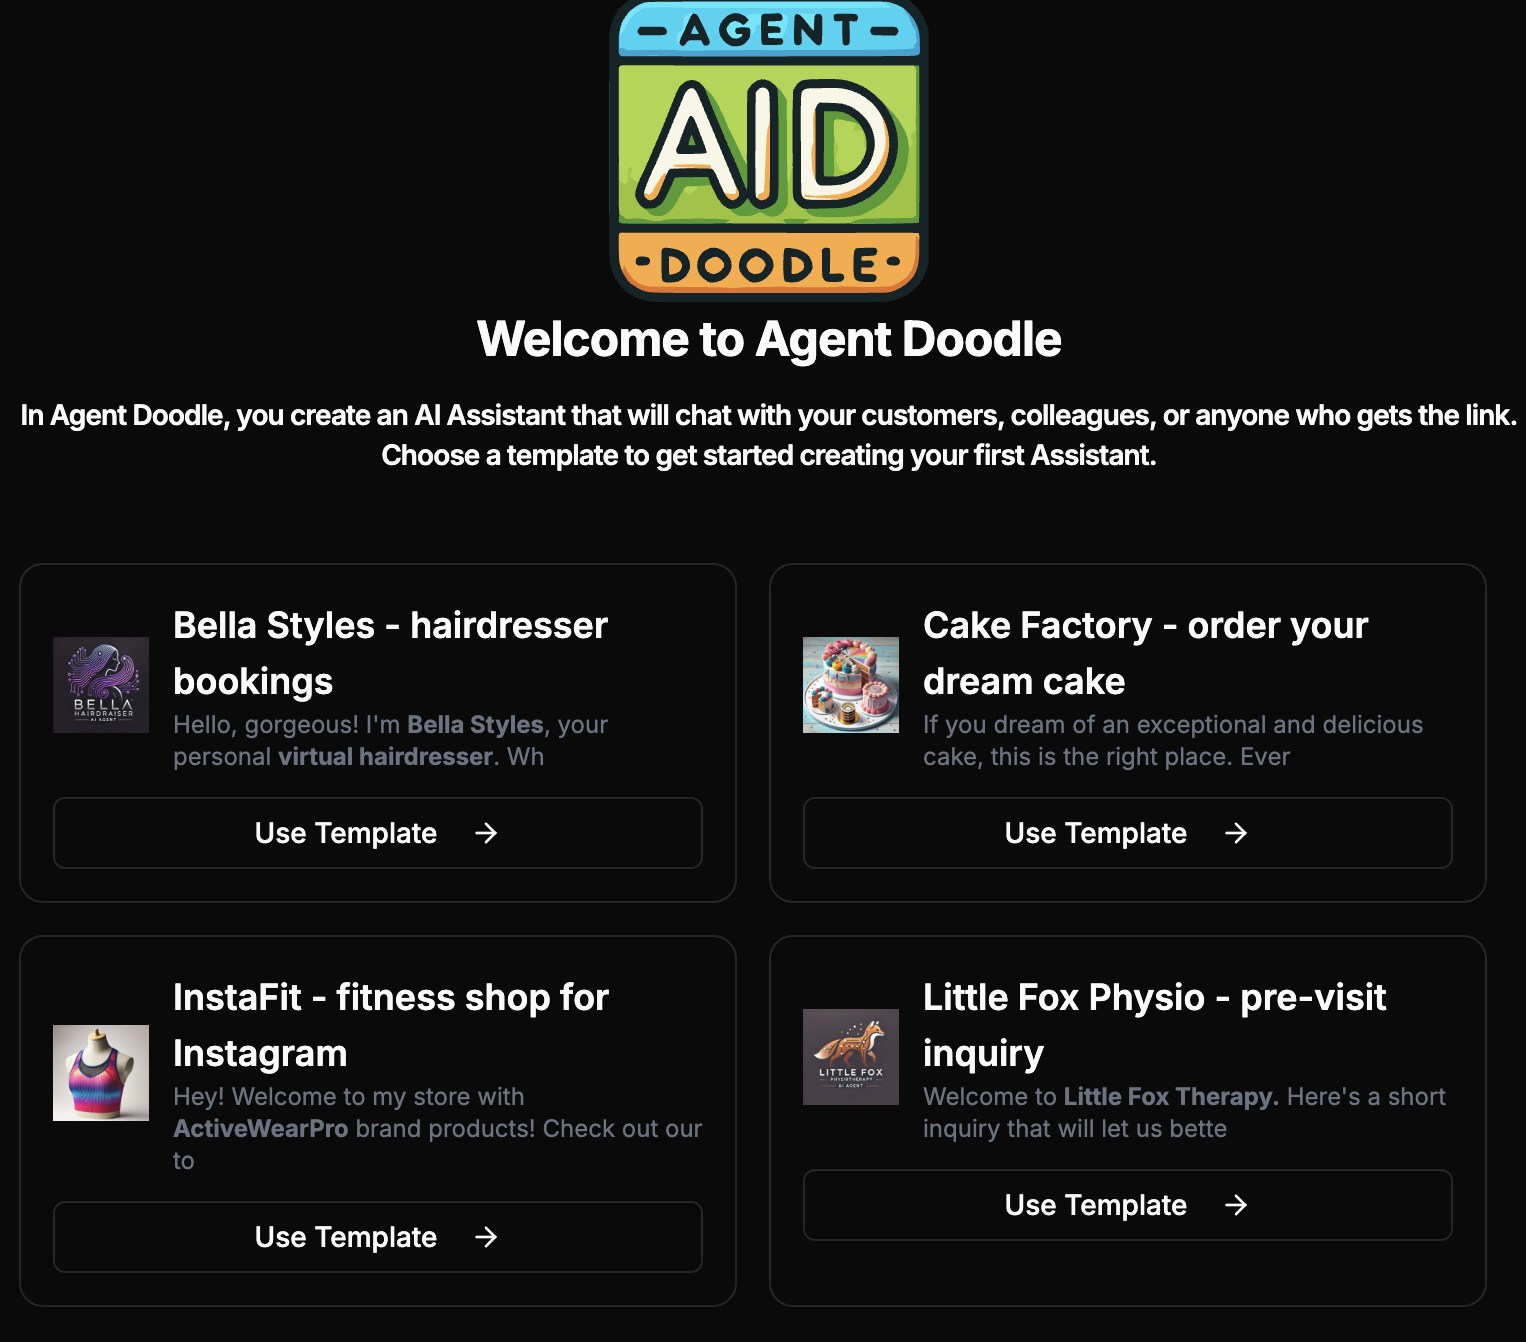
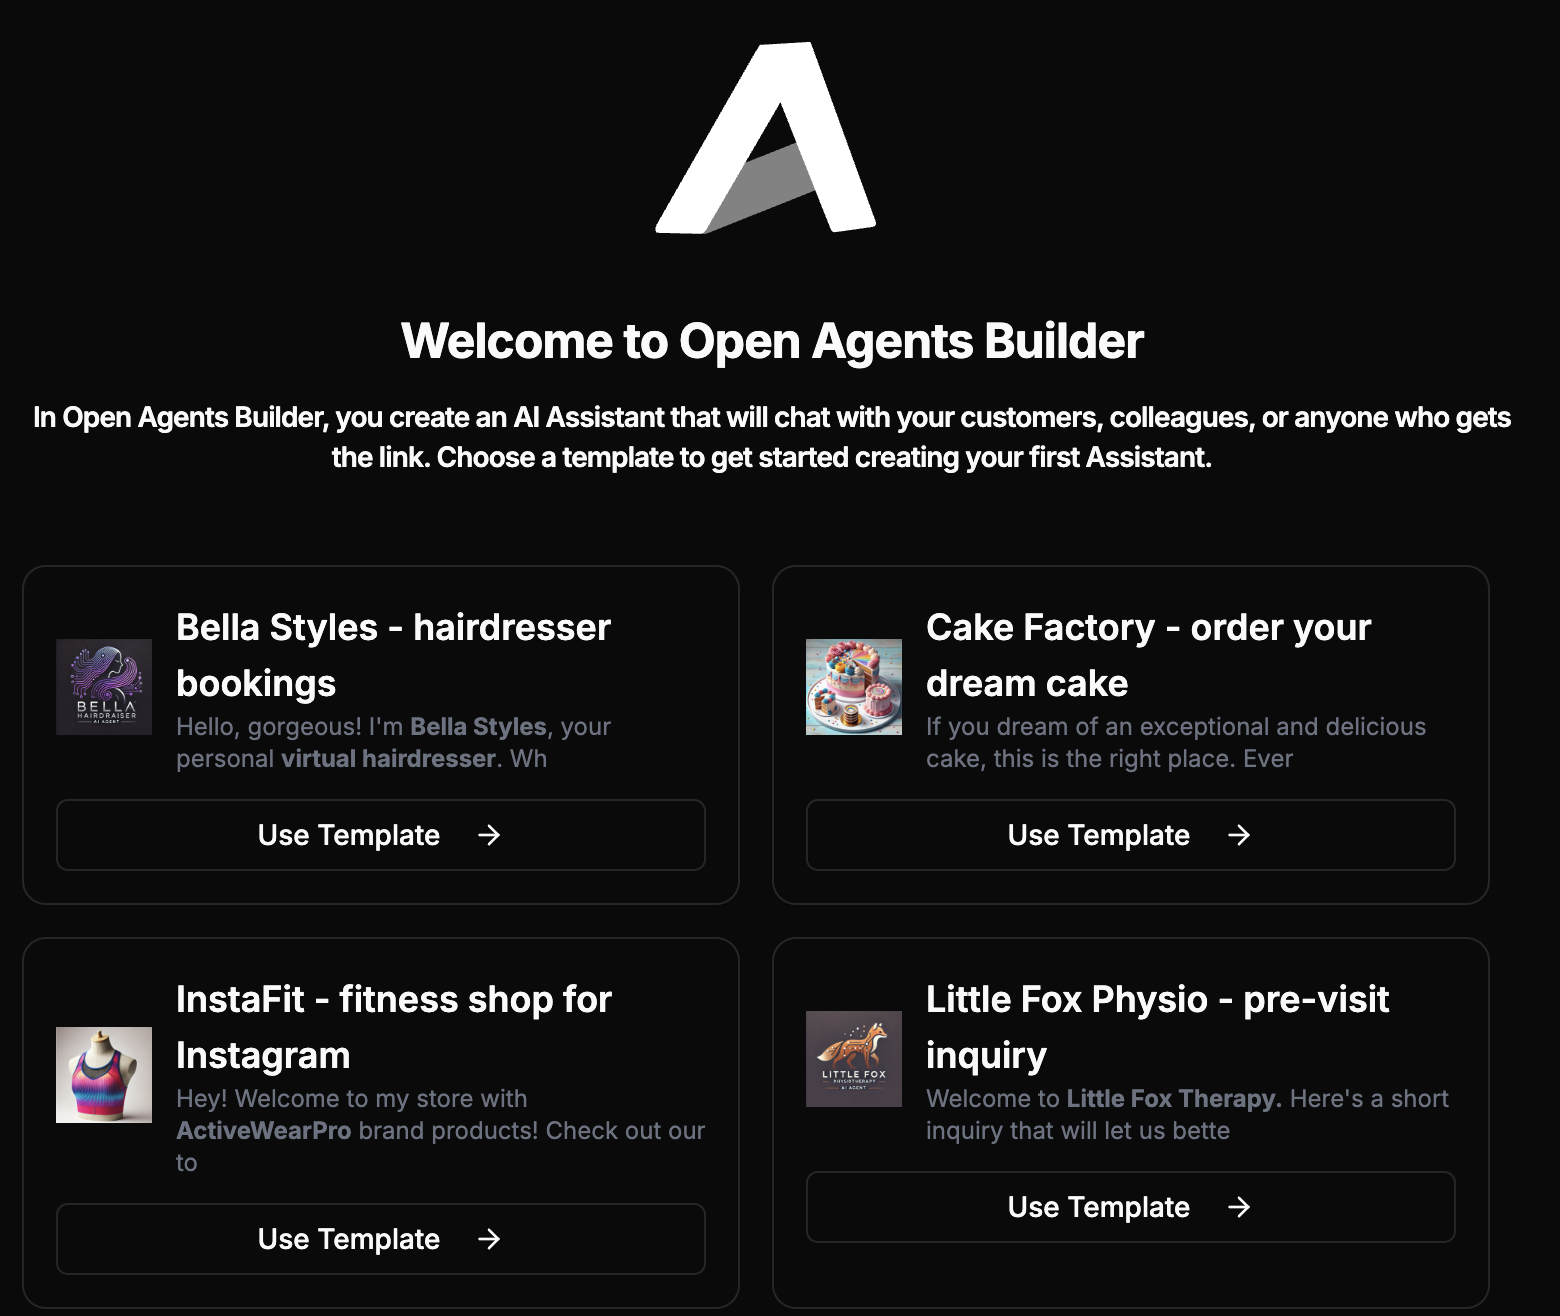
[feat] new readme WIP

diff --git a/README.md b/README.md
@@ -1,9 +1,14 @@
-<img src=".readme-assets/screenshot-hero.png" />
+![OAB logo](.readme-assets/OAB-Logo-dark.svg#gh-dark-mode-only)
+![OAB logo](.readme-assets/OAB-Logo.svg#gh-light-mode-only)
 
-## Build AI Assistants for Bookings, Intake forms, Orders, Support ....
 
-Open Agents Builder let you create interactive AI agents that:
+
+## Build AI Agents for Business: Bookings, Intake forms, Orders, Support, Integrations ....
+
+Open Agents Builder let you create custom AI agents for Business. You can create the **customer facing** agents or **complex business workflows** that:
+:
 - 💵 can sell things on Instagram,
+- ✏ can integrate all sort of business systems - ERP, PIM, CRM
 - 🛠 can configure sophisticated products (CPQ),
 - 💁♀ automates your Company and **saves you tons of time** and money otherwise spend on assisting personel,
 - 🎯 are focused on the goal, **dynamically setting the questions based on previous answers**!
@@ -13,7 +18,8 @@ Open Agents Builder let you create interactive AI agents that:
 - ✏ can collect the **leads** or save them in external CRM,
 - 🛠 are able to call all set of tools - sending e-mails, accessing calendar, external CRM's, data sources etc.
 
-**Create an agent, get a unique link, send it to the users or share on your webpage!**
+
+**Create an agent, get a unique link, send it to the users or call it via API!**
 
 It can literally replace dozen other SaaS tools like:
 - eCommerce,
